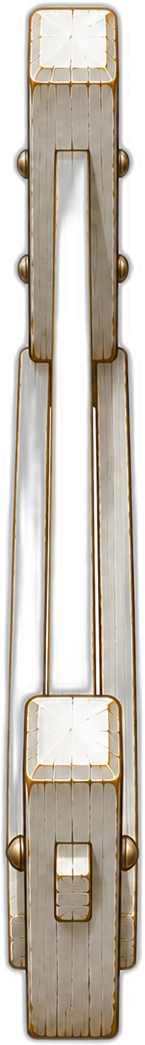
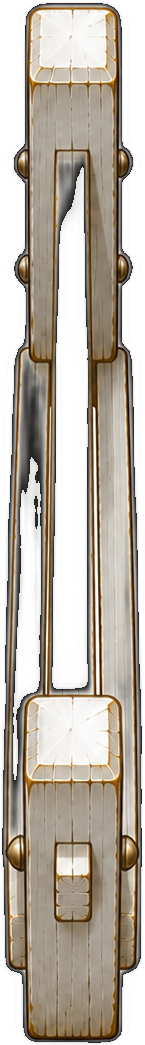
wheets added to farm

Changed region(s): [[0.0, 0.0, 0.9931, 1.0], [0.469, 0.0, 0.5241, 0.0306], [0.8552, 0.7043, 0.8828, 0.7349]]

diff --git a/game.js b/game.js
@@ -70,19 +70,23 @@ const farmImg=n=>{if(!farmImgs[n]){farmImgs[n]=new Image();farmImgs[n].src='asse
 const FARM_BUILD=[
  /* 🏗 Building */
  {id:'lada',n:'Lada',img:'lada_farm',tab:'b',W:380,gy:30,col:{crx:130,cry:38,cyo:-40}},
- {id:'staket',n:'Staket',img:'staketvit_sidan',tab:'b',W:130,gy:12,col:{r:14}},
- {id:'staketv',n:'Staket (vertikalt)',img:'staket_ovan',tab:'b',W:30,gy:14,col:{r:16}},
+ {id:'staket',n:'Staket',img:'staketvit_sidan',tab:'b',W:130,gy:12,col:{r:14,crx:65,cry:9,cyo:4},snap:'h'}, /* thin wall ellipse spanning the full run — no slipping between the posts */
+ {id:'staketv',n:'Staket (vertikalt)',img:'staket_ovan',tab:'b',W:13,gy:14,col:{r:14,crx:8,cry:47,cyo:-33},snap:'v'}, /* sized so its post caps render the same width as staket's (~13 world units) */
  {id:'chickenhouse',n:'Hönshus',img:'chickenhouse_farm',tab:'b',W:230,gy:28,col:{crx:88,cry:34,cyo:-32}},
- {id:'medium',n:'Farmhouse Medium',img:'Farmhouse_medium',tab:'b',locked:'Later prestige'},
- {id:'mansion',n:'Mansion',img:'farmhouse_mansion',tab:'b',locked:'Later prestige'},
+ {id:'medium',n:'Farmhouse Medium',img:'Farmhouse_medium',tab:'b',W:300,gy:30,col:{crx:105,cry:36,cyo:-36}},
+ {id:'mansion',n:'Mansion',img:'farmhouse_mansion',tab:'b',W:440,gy:32,col:{crx:150,cry:44,cyo:-44}},
+ {id:'farmhouse',n:'Farmhouse',img:'farmhouse_litet',tab:'x',W:340,gy:32}, /* the home house — movable in build mode, never sold or removed; tab x hides it from the store */
  /* 🐄 Animals */
  {id:'chickenfarm',n:'Kyckling',img:'chickenfarm_liten',tab:'a',W:58,gy:12,col:{r:12}},
  {id:'chickenfarm_big',n:'Kyckling (stor)',img:'chickenfarm_big',tab:'a',W:95,gy:14,col:{r:18}},
  {id:'cowfarm',n:'Ko',img:'cowfarm_liten',tab:'a',W:78,gy:12,col:{r:14}},
  {id:'cowfarm_big',n:'Ko (stor)',img:'cowfarm_big',tab:'a',W:130,gy:14,col:{r:22}},
  {id:'tjur',n:'Tjur',img:'tjur_farm',tab:'a',W:120,gy:16,col:{r:20}},
- /* 🌾 Food */
- {id:'hay',n:'Hö — frön',img:'ho_fro',W:74,gy:10,tab:'m'},
+ /* 🌾 Food — hay growth stages; crop:1 items live in S.farm.c, not solids */
+ /* all three share one canvas + crop, so identical W renders the dirt patch identically */
+ {id:'hay',n:'Hö — frön',img:'hö_frö',W:93,gy:10,tab:'m',crop:1},
+ {id:'hay_medium',n:'Hö — växer',img:'hö_medium',W:93,gy:10,tab:'m',crop:1},
+ {id:'hay_klar',n:'Hö — klart',img:'hö_klar',W:93,gy:10,tab:'m',crop:1},
  {id:'remove',n:'Ta bort',emoji:'🗑',tab:'*'} /* removes anything except the farmhouse */
 ];
 const torWeaponImg=new Image();torWeaponImg.src='assets/boss/tor_weapon.png';
@@ -1047,6 +1051,7 @@ function migrate(s){ /* fills fields missing from older saves */
  if(!s.knifeAwarded&&(s.rating||0)>=3000){s.knifeAwarded=true;s.theKnife=true;} /* already past 3000 — the knife finds them */
  if(s.gearSets===undefined){s.gearSets=[null,null];s.gearSetSel=-1;} /* two swappable loadouts */
  if(s.farm===undefined)s.farm={owned:false,b:[],c:[]}; /* 🚜 the farm: buildings + crops */
+ if(s.farm.hx===undefined){s.farm.hx=975;s.farm.hy=1320;} /* farmhouse home spot — movable in build mode */
  (s.gearSets||[]).forEach((gs,gi)=>{ /* v1 sets held raw items or a worn flag — convert to v2 (gsid refs) */
   if(!gs)return;
   if(gs.worn){s.gearSets[gi]=null;s.gearSetSel=-1;return;}
@@ -2039,9 +2044,13 @@ function farmHitTest(wx,wy){
  S.farm.b.forEach((b2,i)=>{const d=Math.hypot(b2.x-wx,b2.y-wy);if(d<bd){bd=d;best={kind:'b',i,t:b2.t};}});
  let cd=45;
  S.farm.c.forEach((c2,i)=>{const d=Math.hypot(c2.x-wx,c2.y-wy);if(d<cd){cd=d;best={kind:'c',i,t:c2.t};}});
+ if(!best){ /* the farmhouse itself — big target, but placed pieces on top of it win */
+  const fh=(world&&world.solids)?world.solids.find(s2=>s2.type==='farmhouse'):null;
+  if(fh&&Math.hypot(fh.x-wx,fh.y-wy)<160)best={kind:'fh',i:0,t:'farmhouse'};
+ }
  return best;
 }
-function farmListOf(kind){return kind==='b'?S.farm.b:kind==='c'?S.farm.c:farmCart;}
+function farmListOf(kind){return kind==='b'?S.farm.b:kind==='c'?S.farm.c:kind==='fh'?world.solids.filter(s2=>s2.type==='farmhouse'):farmCart;}
 function showMovePopup(hit,cx,cy){
  const def=FARM_BUILD.find(x=>x.id===hit.t);
  $('farmMoveName').textContent=def?def.n:(hit.t==='hay'?'Hö':hit.t);
@@ -2055,12 +2064,48 @@ function cancelMove(){
  moveItem=null;movePicked=null;
  const b=$('farmMoveFx');if(b)b.style.display='none';
 }
-const FARM_PRICES={lada:0,staket:0,staketv:0,chickenhouse:0,chickenfarm:0,chickenfarm_big:0,cowfarm:0,cowfarm_big:0,tjur:0,hay:0}; /* placeholder — real prices coming */
+const FARM_PRICES={lada:0,staket:0,staketv:0,chickenhouse:0,chickenfarm:0,chickenfarm_big:0,cowfarm:0,cowfarm_big:0,tjur:0,hay:0,hay_medium:0,hay_klar:0,medium:0,mansion:0}; /* placeholder — real prices coming */
+/* 🧲 snap mode — fences click together end to end (and into corners) instead of free placement */
+let snapMode=true;
+const SNAP_R=80; /* how close the cursor must be to a snap point before it grabs */
+function itemSpanOf(def){const im=farmImg(def.img);const W=def.W||200;return {W,H:(im.complete&&im.naturalWidth)?W*im.naturalHeight/im.naturalWidth:W};}
+const CROP_GX=72,CROP_GY=48; /* crop grid = the dirt patch footprint, so patches tile like a field */
+function cropCellTaken(id,x,y){
+ const def=FARM_BUILD.find(o=>o.id===id);
+ if(!def||!def.crop)return false;
+ const cartCrops=farmCart.filter(g2=>{const d3=FARM_BUILD.find(o=>o.id===g2.t);return d3&&d3.crop;});
+ return [...((S.farm&&S.farm.c)||[]),...cartCrops].some(c2=>!c2._moving&&Math.hypot(c2.x-x,c2.y-y)<30);
+}
+function snapPos(id,x,y){
+ const def=FARM_BUILD.find(o=>o.id===id);
+ if(def&&def.crop) /* crops ALWAYS grid-snap — the 🧲 toggle can't turn it off, so no stacking cheese */
+  return {x:Math.round(x/CROP_GX)*CROP_GX,y:Math.round(y/CROP_GY)*CROP_GY};
+ if(!snapMode)return {x,y};
+ if(!def||!def.snap)return {x,y};
+ const my=itemSpanOf(def);
+ let best=null,bd=SNAP_R;
+ for(const it of [...((S.farm&&S.farm.b)||[]),...farmCart]){
+  if(it._moving)continue;
+  const d2=FARM_BUILD.find(o=>o.id===it.t);
+  if(!d2||!d2.snap)continue;
+  const sp=itemSpanOf(d2),cands=[];
+  if(def.snap==='h'&&d2.snap==='h')cands.push({x:it.x-sp.W,y:it.y},{x:it.x+sp.W,y:it.y});
+  else if(def.snap==='v'&&d2.snap==='v')cands.push({x:it.x,y:it.y-sp.H},{x:it.x,y:it.y+sp.H});
+  else if(def.snap==='v') /* vertical piece onto a horizontal run: corner at either end, going up or down */
+   cands.push({x:it.x-sp.W/2,y:it.y},{x:it.x+sp.W/2,y:it.y},{x:it.x-sp.W/2,y:it.y+my.H},{x:it.x+sp.W/2,y:it.y+my.H});
+  else /* horizontal piece onto a vertical run: attach at its south or north end */
+   cands.push({x:it.x-my.W/2,y:it.y},{x:it.x+my.W/2,y:it.y},{x:it.x-my.W/2,y:it.y-sp.H},{x:it.x+my.W/2,y:it.y-sp.H});
+  for(const c of cands){const d=Math.hypot(c.x-x,c.y-y);if(d<bd){bd=d;best=c;}}
+ }
+ return best||{x,y};
+}
 function updateCartUI(){
  const b=$('farmCheckBtn');
  if(!b)return;
  b.style.display=(buildMode&&farmCart.length)?'flex':'none';
  const n=$('farmCartN');if(n)n.textContent=farmCart.length;
+ const sb=$('farmSnapBtn');
+ if(sb){sb.style.display=buildMode?'flex':'none';sb.classList.toggle('on',snapMode);}
 }
 function farmhouseClick(){
  if((S.prestige||0)<5){stageMsg('🔒 Requires Prestige 5',1800);sfx.warn();return;}
@@ -2135,6 +2180,9 @@ function placeFarmItem(id,x,y){
   if(ci>=0){S.farm.c.splice(ci,1);sfx.forge();stageMsg('🗑 Removed',900);save();}
   return;
  }
+ const sp=snapPos(id,x,y);x=Math.round(sp.x);y=Math.round(sp.y);
+ if(x<40||x>=4200||y<40||y>world.h-40){blip(300,180,0.1,.05);return;}
+ if(cropCellTaken(id,x,y)){stageMsg('🌾 Occupied — pick a free tile',1300);sfx.warn();return;}
  farmCart.push({t:id,x,y}); /* a ghost until you pay for it */
  blip(600,900,0.08,.05);
  updateCartUI();
@@ -2151,13 +2199,14 @@ function drawFarmGround(){ /* farm_zone stretched over one cow-field, laid twice
   else ctx.drawImage(mip(img,TW),x0,0,TW,TH);
  }
  ctx.strokeStyle='rgba(0,0,0,0.35)';ctx.lineWidth=26;ctx.strokeRect(0,0,world.w,world.h);
- const hayImg=farmImg('ho_fro');
- for(const c of ((S&&S.farm&&S.farm.c)||[])){ /* 🌱 hay stage 1 — the painted seed patch */
+ for(const c of ((S&&S.farm&&S.farm.c)||[])){ /* 🌱 crops draw with the ground — each hay stage uses its own art */
   if(c._moving)continue;
-  if(c.x<vx0-50||c.x>vx1+50||c.y<vy0-50||c.y>vy1+50)continue;
-  if(hayImg.complete&&hayImg.naturalWidth){
-   const W2=74,H2=W2*hayImg.naturalHeight/hayImg.naturalWidth;
-   ctx.drawImage(mip(hayImg,W2),c.x-W2/2,c.y+10-H2,W2,H2);
+  if(c.x<vx0-80||c.x>vx1+80||c.y<vy0-80||c.y>vy1+80)continue;
+  const cdef=FARM_BUILD.find(o=>o.id===c.t&&o.crop)||FARM_BUILD.find(o=>o.id==='hay');
+  const cimg=farmImg(cdef.img);
+  if(cimg.complete&&cimg.naturalWidth){
+   const W2=cdef.W||74,H2=W2*cimg.naturalHeight/cimg.naturalWidth;
+   ctx.drawImage(mip(cimg,W2),c.x-W2/2,c.y+(cdef.gy!==undefined?cdef.gy:10)-H2,W2,H2);
   }else{
    ctx.strokeStyle='#7db64a';ctx.lineWidth=2;ctx.lineCap='round';
    for(let i=0;i<4;i++){const k=(i-1.5);ctx.beginPath();ctx.moveTo(c.x+k*5,c.y);ctx.quadraticCurveTo(c.x+k*7,c.y-7,c.x+k*10,c.y-13);ctx.stroke();}
@@ -2274,7 +2323,7 @@ function buildZone(){
    world.spawn={x:260,y:1300};
    world.portal={x:-500,y:-500}; /* no default exit swirl */
    world.solids.push({x:120,y:1300,r:38,type:'altarportal'}); /* the way home */
-   world.solids.push({x:1590,y:340,r:46,type:'farmhouse',crx:150,cry:44,cyo:-60});
+   world.solids.push({x:(S.farm&&S.farm.hx)||975,y:(S.farm&&S.farm.hy)||1320,r:46,type:'farmhouse',crx:150,cry:44,cyo:-60});
    rebuildFarmItems();
    zoneMapImg('farm_zone');
   }
@@ -3405,7 +3454,10 @@ cv.addEventListener('pointerdown',e=>{
    if(moveItem){ /* set it down here */
     if(wx>=40&&wx<4200&&wy>=40&&wy<=world.h-40){
      const it=farmListOf(moveItem.kind)[moveItem.i];
-     if(it){it.x=Math.round(wx);it.y=Math.round(wy);delete it._moving;}
+     const sp=it?snapPos(it.t,wx,wy):null;
+     if(it&&cropCellTaken(it.t,Math.round(sp.x),Math.round(sp.y))){stageMsg('🌾 Occupied — pick a free tile',1300);sfx.warn();return;}
+     if(it){it.x=Math.round(sp.x);it.y=Math.round(sp.y);delete it._moving;}
+     if(it&&moveItem.kind==='fh'){S.farm.hx=it.x;S.farm.hy=it.y;} /* persist the farmhouse's new home */
      if(moveItem.kind!=='g'){rebuildFarmItems();save();}
      moveItem=null;sfx.buy();
     }
@@ -3522,11 +3574,17 @@ $('farmDelYes').onclick=()=>{
 };
 $('farmDelNo').onclick=()=>{pendingDelRect=null;$('farmDelFx').style.display='none';};
 $('farmCheckBtn').onclick=()=>openFarmCheckout();
+$('farmSnapBtn').onclick=()=>{
+ snapMode=!snapMode;
+ $('farmSnapBtn').classList.toggle('on',snapMode);
+ stageMsg(snapMode?'🧲 Snap mode — pieces click together':'🖐 Free mode — place anywhere',1600);
+};
 $('farmCheckYes').onclick=()=>{
  const total=farmCartTotal();
  if(total>0&&!spendGold(total)){stageMsg('Not enough gold — '+total.toLocaleString()+'◉ needed',1800);sfx.warn();return;}
  for(const g2 of farmCart){
-  if(g2.t==='hay')S.farm.c.push({t:'hay',stage:1,x:g2.x,y:g2.y,at:Date.now()});
+  const cd=FARM_BUILD.find(o=>o.id===g2.t);
+  if(cd&&cd.crop)S.farm.c.push({t:g2.t,stage:1,x:g2.x,y:g2.y,at:Date.now()});
   else S.farm.b.push({t:g2.t,x:g2.x,y:g2.y});
  }
  const n=farmCart.length;
@@ -3555,7 +3613,7 @@ window.addEventListener('pointercancel',endHoldMove);
 /* ---- camera zoom: mouse wheel on the map, 2-finger pinch on phones ---- */
 let zoom=1,pinchD=0,pinching=false;
 const ZMAX=3;
-const zmin=()=>buildMode?0.12:((IS_TOUCH&&Math.min(VW,VH)<820)?0.7:1); /* build mode surveys the whole plot */
+const zmin=()=>buildMode?1/3:0.7; /* build mode surveys the whole plot (3× out); normal play allows 0.7 everywhere */
 function setZoom(z){zoom=Math.max(zmin(),Math.min(ZMAX,z));}
 cv.addEventListener('wheel',e=>{
  if(!gameOn)return;
@@ -4388,6 +4446,16 @@ function draw(){
   ctx.globalAlpha=1;
  }
  if(z.farm&&buildMode){ /* buildable boundary + pending ghosts + ghost of the selected item */
+  { /* 📐 build grid — instant visual cue that build mode is on */
+   const GRID=100;
+   const vx0=Math.max(40,camX),vx1=Math.min(4200,camX+VW/zoom);
+   const vy0=Math.max(40,camY),vy1=Math.min(world.h-40,camY+VH/zoom);
+   ctx.strokeStyle='rgba(255,255,255,0.13)';ctx.lineWidth=Math.min(5,2.5/zoom);
+   ctx.beginPath();
+   for(let lx=Math.ceil(vx0/GRID)*GRID;lx<=vx1;lx+=GRID){ctx.moveTo(lx,vy0);ctx.lineTo(lx,vy1);}
+   for(let ly=Math.ceil(vy0/GRID)*GRID;ly<=vy1;ly+=GRID){ctx.moveTo(vx0,ly);ctx.lineTo(vx1,ly);}
+   ctx.stroke();
+  }
   ctx.globalAlpha=0.55;
   for(const g2 of farmCart){
    if(g2._moving)continue;
@@ -4405,18 +4473,19 @@ function draw(){
   ctx.strokeRect(20,20,4180,world.h-40);ctx.setLineDash([]);
   if(buildSel||moveItem){
    const gid=moveItem?moveItem.t:buildSel;
-   const ok=mouseWX>=40&&mouseWX<4200&&mouseWY>=40&&mouseWY<=world.h-40;
+   const gp=gid&&gid!=='remove'?snapPos(gid,mouseWX,mouseWY):{x:mouseWX,y:mouseWY};
+   const ok=gp.x>=40&&gp.x<4200&&gp.y>=40&&gp.y<=world.h-40&&!cropCellTaken(gid,Math.round(gp.x),Math.round(gp.y));
    ctx.globalAlpha=ok?0.55:0.25;
    const def=FARM_BUILD.find(x=>x.id===gid);
    if(def&&def.img){
     const im=farmImg(def.img);
     if(im.complete&&im.naturalWidth){
      const W=def.W||200,H=W*im.naturalHeight/im.naturalWidth;
-     ctx.drawImage(mip(im,W),mouseWX-W/2,mouseWY+(def.gy!==undefined?def.gy:30)-H,W,H);
+     ctx.drawImage(mip(im,W),gp.x-W/2,gp.y+(def.gy!==undefined?def.gy:30)-H,W,H);
     }
    }else if(gid==='hay'){ /* hay ghost via its art */
-    const im3=farmImg('ho_fro');
-    if(im3.complete&&im3.naturalWidth){const W3=74,H3=W3*im3.naturalHeight/im3.naturalWidth;ctx.drawImage(mip(im3,W3),mouseWX-W3/2,mouseWY+10-H3,W3,H3);}
+    const im3=farmImg('hö_frö');
+    if(im3.complete&&im3.naturalWidth){const W3=74,H3=W3*im3.naturalHeight/im3.naturalWidth;ctx.drawImage(mip(im3,W3),gp.x-W3/2,gp.y+10-H3,W3,H3);}
    }else if(gid==='remove'){ /* demolish cursor */
     ctx.strokeStyle='rgba(255,90,70,0.9)';ctx.lineWidth=4;ctx.lineCap='round';
     ctx.beginPath();ctx.moveTo(mouseWX-14,mouseWY-14);ctx.lineTo(mouseWX+14,mouseWY+14);
@@ -4426,7 +4495,8 @@ function draw(){
     for(let i=0;i<4;i++){const k=(i-1.5);ctx.beginPath();ctx.moveTo(mouseWX+k*5,mouseWY);ctx.quadraticCurveTo(mouseWX+k*7,mouseWY-7,mouseWX+k*10,mouseWY-13);ctx.stroke();}
    }
    ctx.globalAlpha=1;
-   if(!ok){ctx.strokeStyle='rgba(255,90,70,0.8)';ctx.lineWidth=2;ctx.beginPath();ctx.arc(mouseWX,mouseWY,22,0,7);ctx.stroke();}
+   if(gp.x!==mouseWX||gp.y!==mouseWY){ctx.strokeStyle='rgba(120,230,140,0.9)';ctx.lineWidth=2.5;ctx.beginPath();ctx.arc(gp.x,gp.y,10,0,7);ctx.stroke();}
+   if(!ok){ctx.strokeStyle='rgba(255,90,70,0.8)';ctx.lineWidth=2;ctx.beginPath();ctx.arc(gp.x,gp.y,22,0,7);ctx.stroke();}
   }
   if(removeDrag){ /* the demolition marquee */
    ctx.fillStyle='rgba(255,90,70,0.12)';
@@ -4698,7 +4768,7 @@ function drawProp(s,z){
   ctx.fillStyle='#bcd8ff';ctx.fillText(lbl,0,-96);
  }else if(s.type==='farmhouse'){
   const im=farmImg('farmhouse_litet');
-  if(im.complete&&im.naturalWidth){
+  if(!s._moving&&im.complete&&im.naturalWidth){ /* hidden while being carried in build mode */
    const W=340,H=W*im.naturalHeight/im.naturalWidth;
    ctx.fillStyle='rgba(0,0,0,0.22)';ctx.beginPath();ctx.ellipse(0,28,W*0.40,W*0.12,0,0,7);ctx.fill();
    ctx.drawImage(mip(im,W),-W/2,32-H,W,H);
@@ -4715,7 +4785,7 @@ function drawProp(s,z){
   const im=def&&def.img?farmImg(def.img):null;
   if(def&&im&&im.complete&&im.naturalWidth){
    const W=def.W||200,H=W*im.naturalHeight/im.naturalWidth,gy=def.gy!==undefined?def.gy:30;
-   if(def.col&&def.col.crx){ctx.fillStyle='rgba(0,0,0,0.22)';ctx.beginPath();ctx.ellipse(0,gy-4,W*0.38,W*0.11,0,0,7);ctx.fill();}
+   if(def.col&&def.col.crx&&!def.snap){ctx.fillStyle='rgba(0,0,0,0.22)';ctx.beginPath();ctx.ellipse(0,gy-4,W*0.38,W*0.11,0,0,7);ctx.fill();} /* fences: no building blob shadow */
    ctx.drawImage(mip(im,W),-W/2,gy-H,W,H);
   }
  }else if(s.type==='farmportal'){

diff --git a/style.css b/style.css
@@ -61,6 +61,8 @@
   #skillbar{position:absolute;bottom:22px;left:50%;transform:translateX(-50%);display:flex;gap:7px;align-items:flex-end;z-index:6}
   #farmCheckBtn{position:absolute;bottom:84px;left:50%;transform:translateX(-50%);width:52px;height:44px;border-radius:11px;border:1px solid var(--brass);background:linear-gradient(180deg,#3a2a1c,#221610);font-size:20px;cursor:pointer;display:none;align-items:center;justify-content:center;z-index:6;box-shadow:0 0 12px rgba(217,164,65,.4)}
   #farmCheckBtn .cnt{position:absolute;top:1px;right:5px;font-size:10px;color:#ffd76a;font-weight:700;text-shadow:0 1px 2px #000}
+  #farmSnapBtn{position:absolute;bottom:84px;left:50%;transform:translateX(calc(-50% - 62px));width:52px;height:44px;border-radius:11px;border:1px solid #6a4a2a;background:linear-gradient(180deg,#3a2a1c,#221610);font-size:20px;cursor:pointer;display:none;align-items:center;justify-content:center;z-index:6;opacity:.55}
+  #farmSnapBtn.on{border-color:var(--brass);opacity:1;box-shadow:0 0 12px rgba(217,164,65,.4)}
   #fishBtn{position:absolute;bottom:84px;left:50%;transform:translateX(-50%);width:44px;height:44px;border-radius:11px;border:1px solid var(--brass-deep);background:linear-gradient(180deg,#3a2a1c,#221610);font-size:20px;cursor:pointer;display:none;align-items:center;justify-content:center;z-index:6;box-shadow:0 2px 8px rgba(0,0,0,.5)}
   #fishBtn.on{border-color:var(--brass);box-shadow:0 0 12px rgba(217,164,65,.5);animation:pulseNext 1.6s infinite}
   #fishBtn .cnt{position:absolute;top:1px;right:4px;font-size:9px;color:#fff;font-weight:700;text-shadow:0 1px 2px #000}

diff --git a/index.html b/index.html
@@ -92,6 +92,7 @@
     <button id="fishBtn" title="Fiska">🪝<span class="cnt" id="fishWormN"></span></button>
     <div id="fishToast"></div>
     <button id="farmCheckBtn" title="Checkout">🛒<span class="cnt" id="farmCartN"></span></button>
+    <button id="farmSnapBtn" title="Snap mode — pieces click together">🧲</button>
     <div id="farmMoveFx" style="position:absolute;z-index:70;display:none;background:rgba(22,15,9,.95);border:1.5px solid #8a6a44;border-radius:10px;padding:8px 10px;min-width:132px;box-shadow:0 4px 16px rgba(0,0,0,.5)">
       <div style="display:flex;justify-content:space-between;align-items:center;gap:8px;margin-bottom:6px">
         <b id="farmMoveName" style="color:#e8c9a0;font-size:12.5px">Item</b>